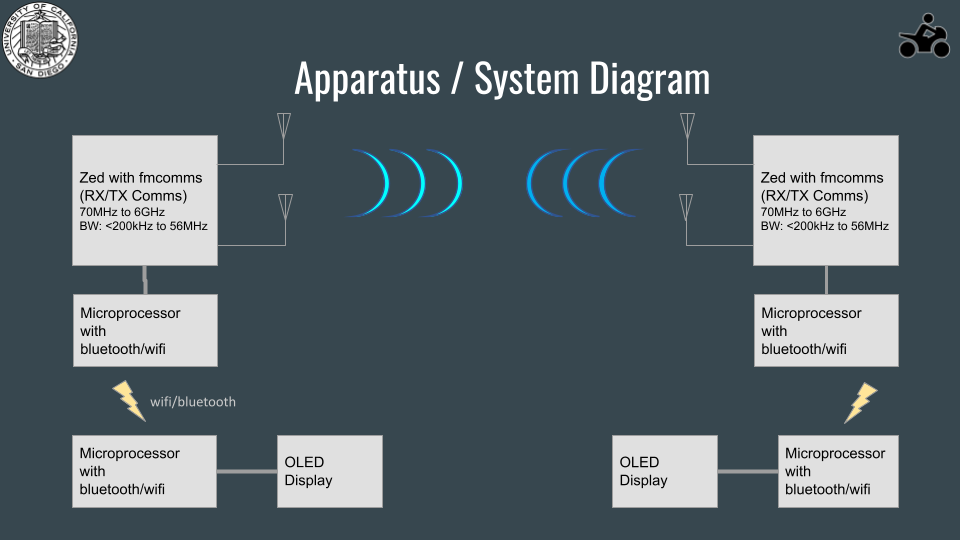
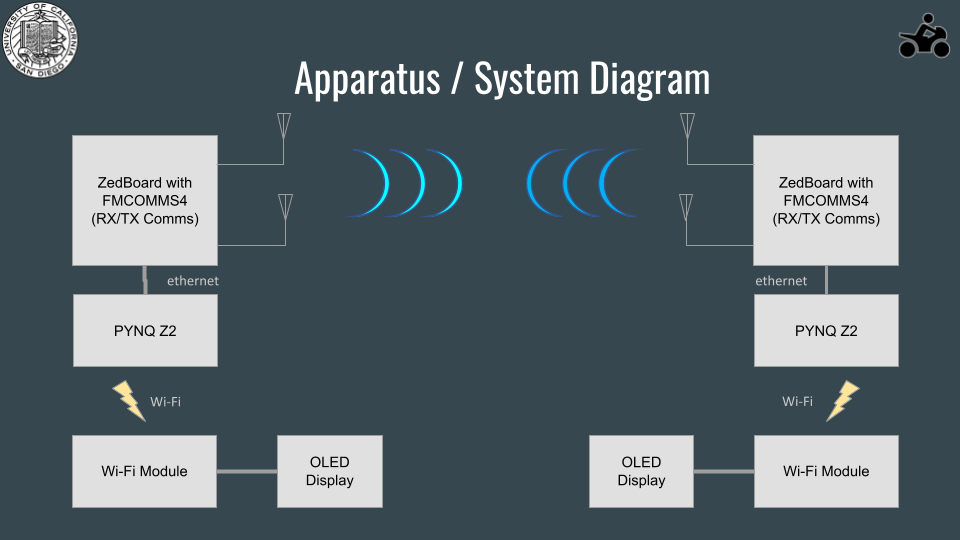
Adding videos/images to docs

diff --git a/README.md b/README.md
@@ -1,3 +1,5 @@
+[![alt text](docs/images/thumbnail.png?raw=true)](https://www.youtube.com/watch?v=SJ1P-lReLIU)
+
 # Program Details
 This effort was part of [UCSD MAS WES](https://jacobsschool.ucsd.edu/mas/wes) Cohort 9 (2020-2022), consisting of the following students:
 - Ryan Hiser: rhiser@ucsd.edu
@@ -28,6 +30,21 @@ Each directory may contain its own readme with more details.
 | [udp_server](udp_server)           |         |
 | [vivado_project](vivado_project)   | Archived Vivado Project         |
 
+# Software Requirements
+This repository has saved versions of the latest working build (C code, bit file, kernel image).
+In order to modify and/or regenerate the source code/files, the following programs are required.
+
+- MATLAB/Simulink R2021b (C code generation)
+  - TX Baseband
+  - TX Modulator
+  - RX Baseband
+- Vitis HLS 2019 (IP core generation)
+  - RX Demodulator
+- Vivado 2021.1
+  - Inter-IP Module connections
+- Arduino IDE
+  - ESP8266 Wi-Fi Module
+
 # V2X Motorcycle HUD
 ![alt text](docs/images/v2x.png?raw=true)
 
@@ -37,15 +54,20 @@ The final system consists of 2 motorcycles (wherein each motorcycle mounts a ful
 A custom waveform is used to transmit HUD data (shown on the HUD) and audio (played through speakers).
 This information includes the other vehicle’s name, geographic location, speed, directions, and distance to next step.
 
-## HUD System Diagram and Materials
+## System Diagram and Equipment
 ![alt text](docs/images/apparatus.png?raw=true)
 
-As shown in the diagram above, each motorcycle in the V2X system consists of the 4 main components:
+As shown in the diagram above, each motorcycle HUD in the V2X system consists of these components:
 
 - [Avnet ZedBoard](https://www.avnet.com/wps/portal/us/products/avnet-boards/avnet-board-families/zedboard/)
+  - [AD-FMCOMMS4-EBZ](https://www.analog.com/en/design-center/evaluation-hardware-and-software/evaluation-boards-kits/eval-ad-fmcomms4-ebz.html)
+  - Wi-Fi Antennas (2x)
 - [PYNQ Z2](http://www.pynq.io/board.html)
-- WiFi Module
-- OLED Screen
+- [ESP8266 Wi-Fi Module](https://www.amazon.com/gp/product/B081CSJV2V/ref=ppx_yo_dt_b_asin_title_o01_s00?ie=UTF8&psc=1)
+- [OLED Display](https://www.amazon.com/gp/product/B09JWN8K99/ref=ppx_yo_dt_b_asin_title_o01_s00?ie=UTF8&th=1)
+
+## Dataflow
+![alt text](docs/images/dataflow.png?raw=true)
 
 The data flow is from one V2X TX to the other V2X RX is described as:
 
@@ -78,3 +100,16 @@ The data packet consists of 784 total bits, where the first 144 bits contain HUD
 | Directions                        | uint8_t      (8  bits)  |
 | Distance to next step             | float        (32 bits)  |
 | Audio (mono, 16bit, 4kHz, 0.01s)  | uint16_t[40] (640 bits) |
+
+## Future Tasks
+The current build (as of June 6, 2022) requires more work in order to get a more complete system build working.
+Currently this build has gotten as far as an OTA loopback with a singular ZedBoard (no success with a 2 way link so far).
+The following list states the components that need more debugging/verification/implementation.
+
+- PLL
+  - Does not consistently behave as desired
+  - Most likely cause of 2 way link issue (clocks on each board likely not matching)
+- TDMA
+  - Unable to start implementation since 2 way link never established
+- Distance between riders
+  - Unable to start implementation since TDMA never implemented
